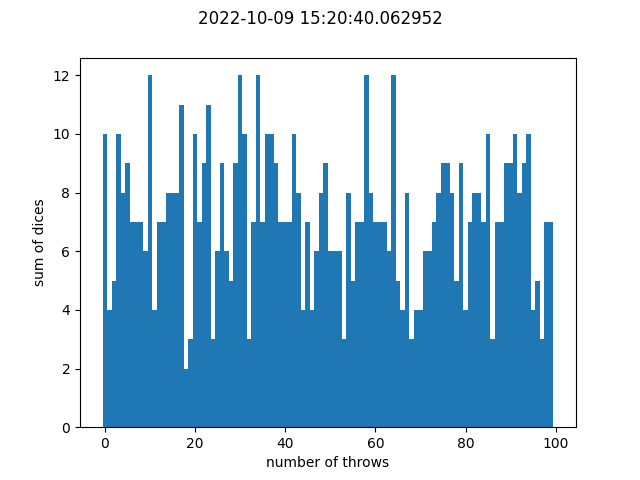
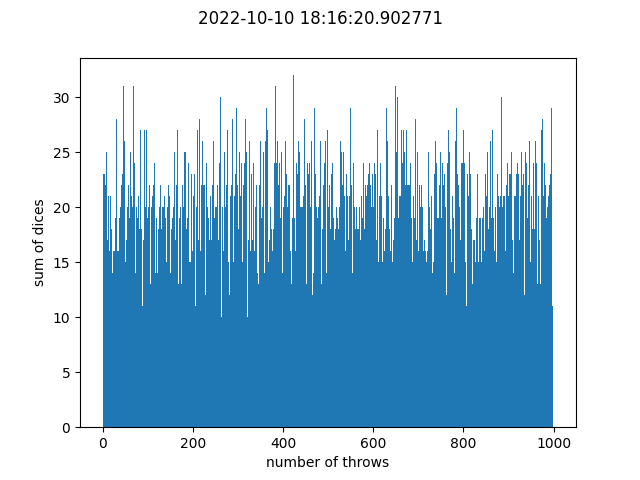
updated

diff --git a/sgt_20221006-libraries-hw.py b/sgt_20221006-libraries-hw.py
@@ -62,5 +62,5 @@ def dice_throws(nr_of_dice, nr_of_throws):
     # return random_list, number_of_throws, r_sum_list
 
 
-print(dice_throws(2,100))
+print(dice_throws(6,1000))
 
